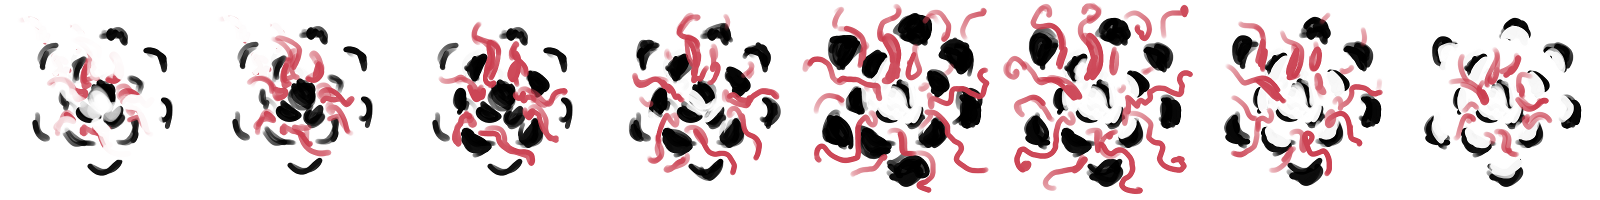
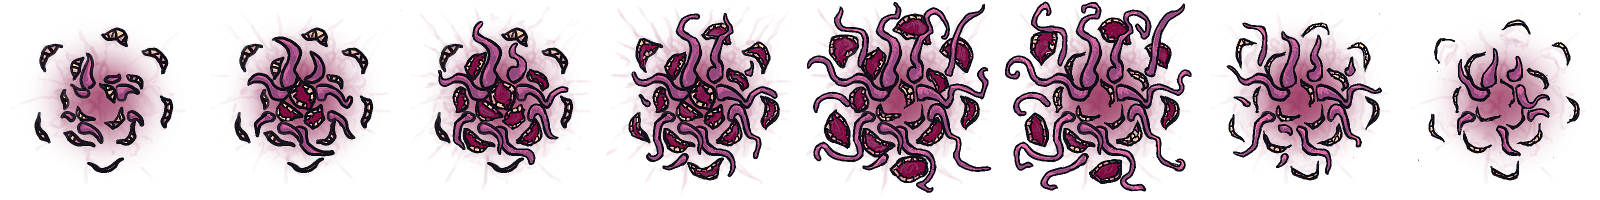
new Sprites for heal potions and some attack effects. Beginning to animate the first boss.

diff --git a/src/gameworld.py b/src/gameworld.py
@@ -281,7 +281,7 @@ class GameWorld(object):
                     proj_width = 32
                     proj_height = 32
                     effect_ID = self.create_attack_effect('tentakel2.png',
-                                                      200, 200, 8, 49)
+                                                      200, 200, 8, 52)
                 if damage3: #Attack exists
                     particle_emitter3 = self.create_attack(position, damage3, stun3,
                                                           cooldown3, proj3, proj_image,
@@ -343,10 +343,16 @@ class GameWorld(object):
             elif tile_properties["type"] == "heal_potion":
                 #Add fields
                 recovery = int(tile_properties["recovery"])
+                size = tile_properties["size"]
                 tags = list()
                 tags.append("heal_potion")
                 collider = components.Collider(x*64, y*64, 64, 64, tags)
-                temp = pygame.image.load(os.path.join('data', 'heal_pot.png'))
+                image_name = 'heal_potion_s.png'
+                if size == 'l':
+                    image_name = 'heal_potion_l.png'
+                elif size == 'm':
+                    image_name = 'heal_potion_m.png'
+                temp = pygame.image.load(os.path.join('data', image_name))
                 heal_sprite = components.Appearance(temp.convert_alpha())
                 heal_sprite.rect.center = collider.center
                 heal_pot = collectible.HealPotion(self, self.event_manager, recovery)
@@ -508,13 +514,13 @@ class GameWorld(object):
             self.add_component_to_entity(enemy_ID, attack_list)
         elif ai_ID == "pink_boss":
             #Enemy's hitbox, it is 50 pixel width and 96 pixel height
-            coll = components.Collider(position[0], position[1], 50, 96)
+            coll = components.Collider(position[0], position[1], 86, 170)
             vel = components.Velocity(0, 0, max_x_vel, max_y_vel)
             #Create enemy's animations
             temp = pygame.image.load(os.path.join('data', 'enemy_pink_boss.png')).convert_alpha()
-            anim_list = [4, 8, 6, 8, 2, 4, 6, 6]
+            anim_list = [4, 8, 5, 8, 2, 4, 5, 5]
             anim_time_list = [240, 60, 44, 58, 10, 44, 44, 44]
-            anim = components.Appearance(temp, 243, 128, anim_list, anim_time_list)
+            anim = components.Appearance(temp, 250, 200, anim_list, anim_time_list)
             anim.rect.center = coll.center
             direction = components.Direction([1, 0])
             hp = components.Health(max_hp)

diff --git a/src/game.py b/src/game.py
@@ -57,8 +57,8 @@ if __name__ == "__main__":
     pygame.font.init()
     pygame.display.set_caption('Chaos Projectile')
     #pygame.mouse.set_visible(False)
-    #screen = pygame.display.set_mode((800, 600), pygame.RESIZABLE)
-    screen = pygame.display.set_mode((800, 600), pygame.NOFRAME | pygame.FULLSCREEN | pygame.HWSURFACE)
+    screen = pygame.display.set_mode((800, 600), pygame.RESIZABLE)
+    #screen = pygame.display.set_mode((800, 600), pygame.NOFRAME | pygame.FULLSCREEN | pygame.HWSURFACE)
 
     #Create event manager
     evManager = events.EventManager()
